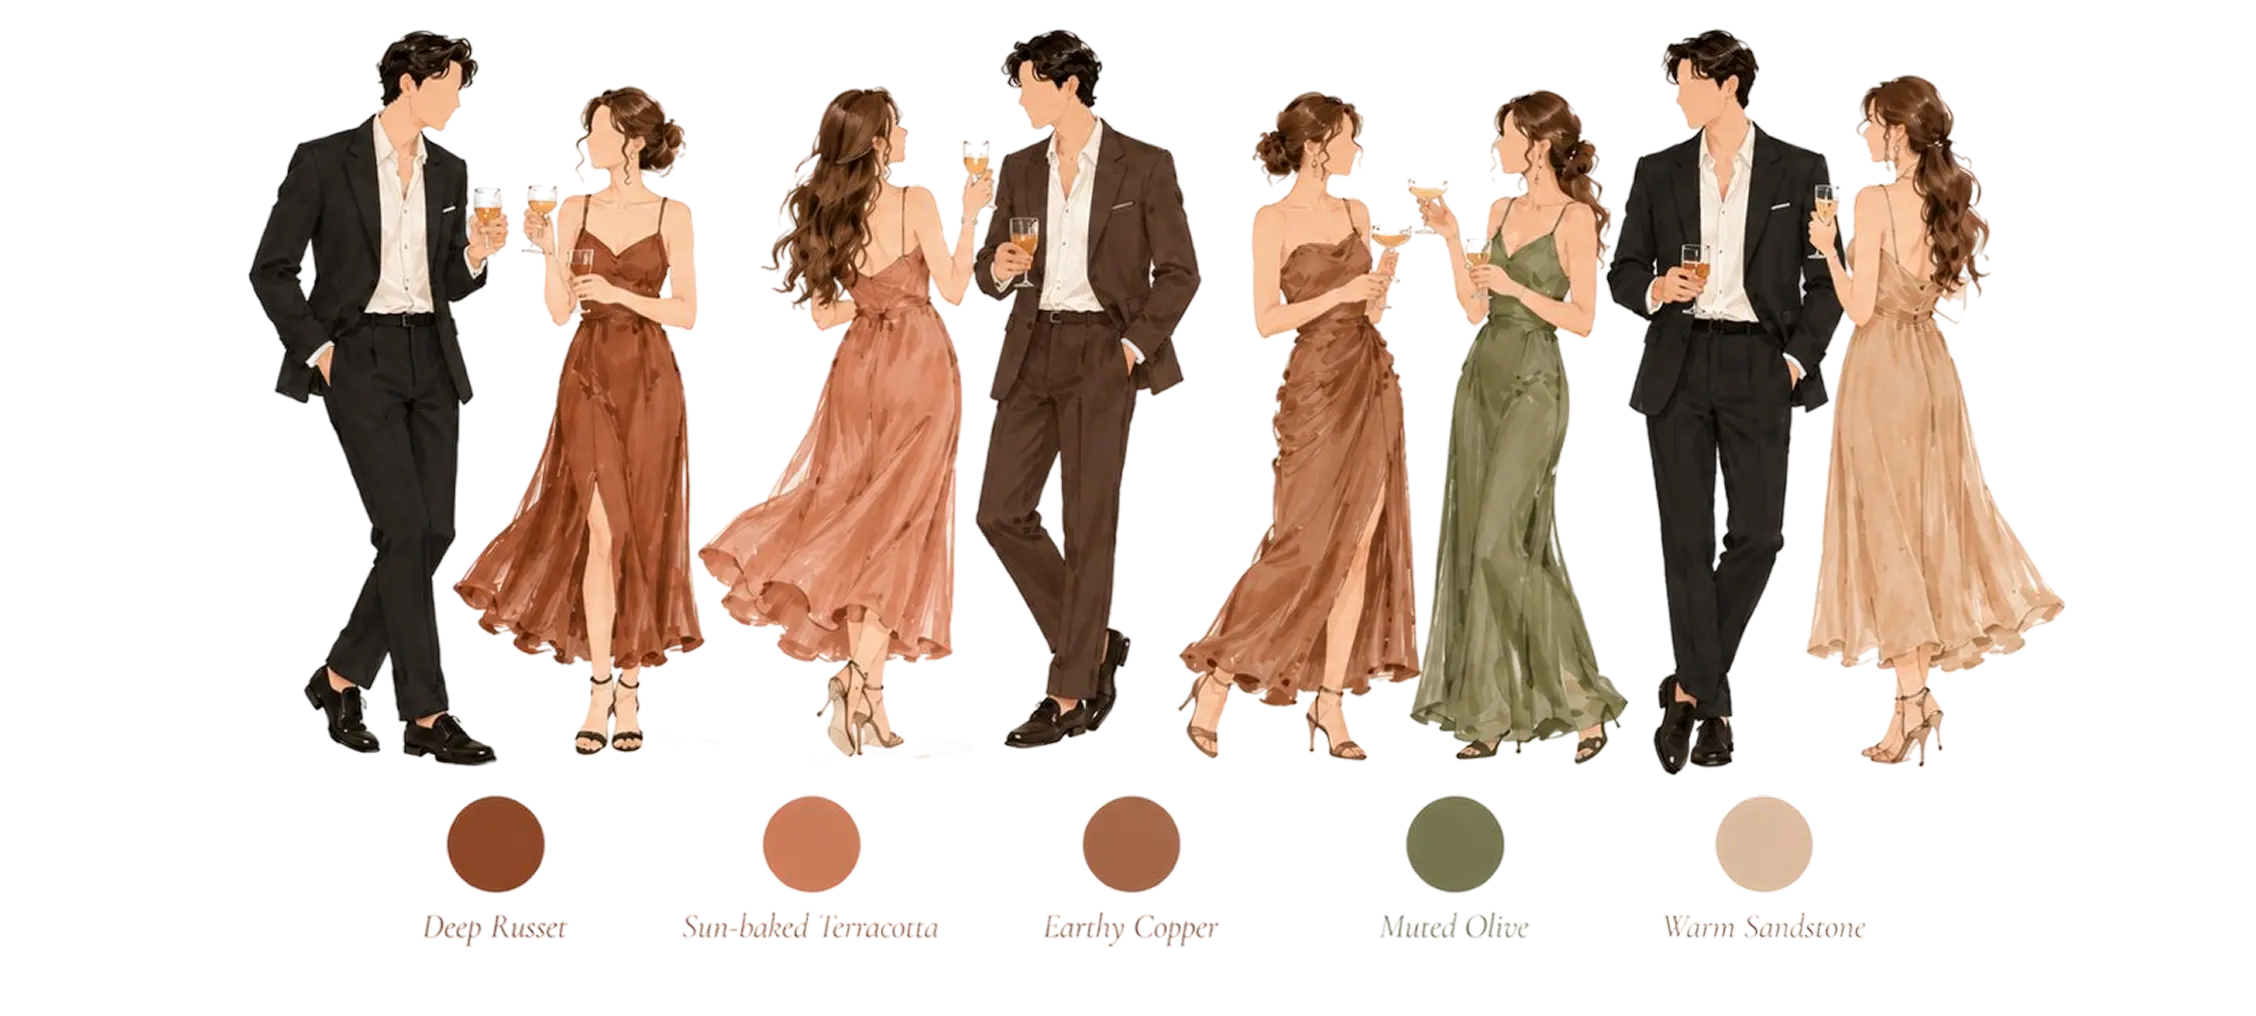
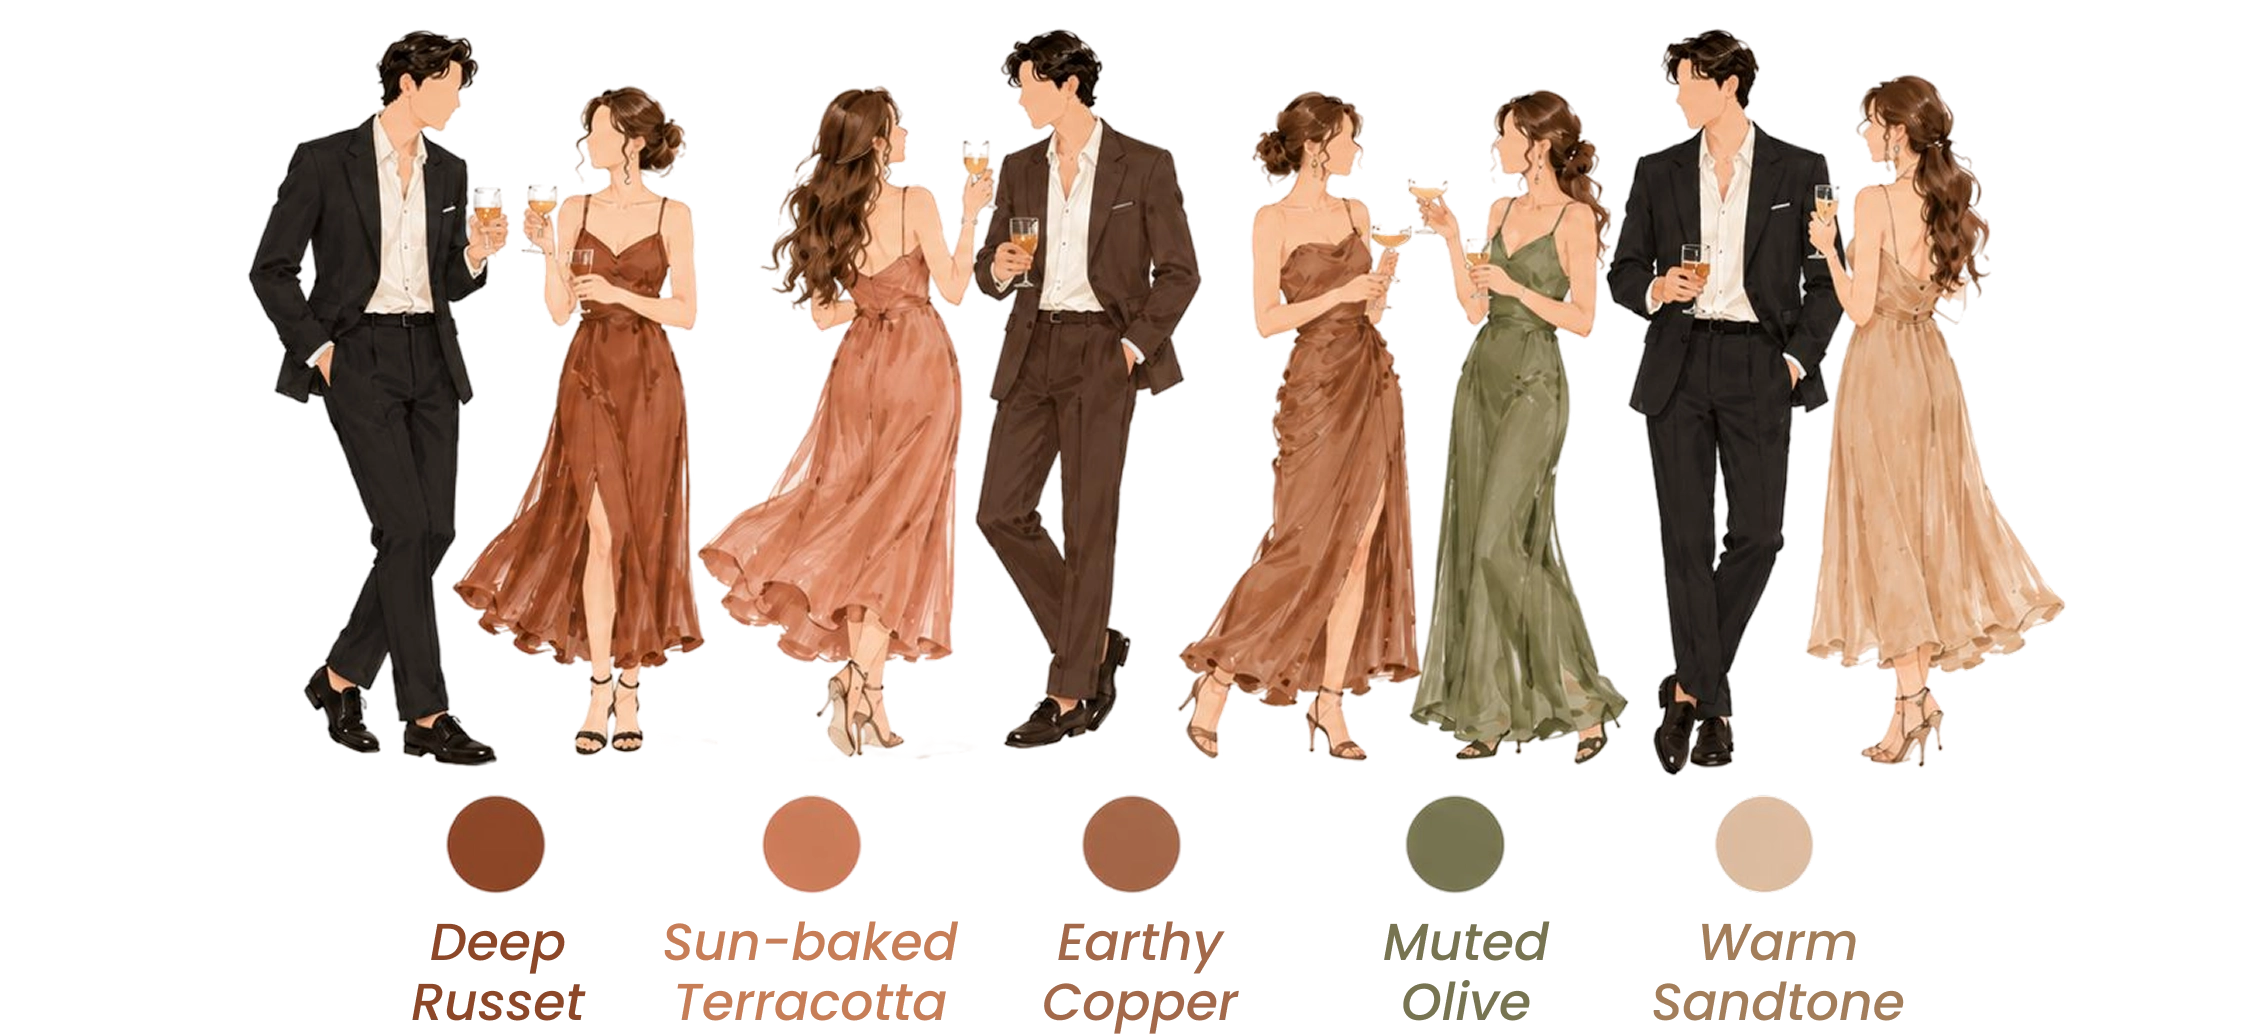
update dresscode mobile dekstop

diff --git a/src/components/templates/Lincoln-Laurensia/Dresscode.tsx b/src/components/templates/Lincoln-Laurensia/Dresscode.tsx
@@ -36,7 +36,7 @@ const DressCode = ({ guestData }: DressCodeProps) => {
         whileInView="show"
         viewport={{ once: true, amount: 0.3 }}
         transition={{ duration: 1.5, ease: "easeOut" }}
-        className="relative mt-[8.5vw] h-[41.03vw] w-full max-w-[103.33vw] lg:mt-[3.9vw] lg:h-[16.8vw] lg:max-w-[37.3vw]"
+        className="relative w-full mt-[4.1vw] h-[16.8vw] max-w-[37.3vw] hidden lg:block"
       >
         <Image
           src="/images/Lincoln-Laurensia/Dresscode/NewDC.webp"
@@ -52,7 +52,23 @@ const DressCode = ({ guestData }: DressCodeProps) => {
         whileInView="show"
         viewport={{ once: true, amount: 0.3 }}
         transition={{ duration: 1.5, ease: "easeOut" }}
-        className="mt-[0.75vw] lg:mt-[1.7vw]"
+        className="relative mt-[9vw] h-[44vw] w-[120vw] max-w-none lg:hidden"
+      >
+        <Image
+          src="/images/Lincoln-Laurensia/Dresscode/NewDCMobilee.webp"
+          alt="Dress code"
+          fill
+          className="object-contain"
+        />
+      </motion.div>
+
+      <motion.div
+        variants={fadeUp}
+        initial="hidden"
+        whileInView="show"
+        viewport={{ once: true, amount: 0.3 }}
+        transition={{ duration: 1.5, ease: "easeOut" }}
+        className="mt-[6.65vw] lg:mt-[2.7vw]"
       >
         <p className="text-[3.08vw] font-bold uppercase lg:text-[1.46vw] text-[#2F2F2F]">
           Gentlemen :

diff --git a/src/components/templates/Lincoln-Laurensia/hooks/usePreloader.tsx b/src/components/templates/Lincoln-Laurensia/hooks/usePreloader.tsx
@@ -15,6 +15,9 @@ const IMAGES_MOBILE: string[] = [
   //   EVENTORDER
   "/images/Lincoln-Laurensia/EventOrder/RumahMobile.webp",
 
+  // DRESSCODE
+  "/images/Lincoln-Laurensia/Dresscode/NewDCMobilee.webp",
+
   // THANKYOU
   "/images/Lincoln-Laurensia/Thankyou/AsetMobile.webp",
 ];
@@ -29,6 +32,10 @@ const IMAGES_DESKTOP: string[] = [
 
   // EVENTORDER
   "/images/Lincoln-Laurensia/EventOrder/RumahDekstop.webp",
+
+  // DRESSCODE
+  // DRESSCODE
+  "/images/Lincoln-Laurensia/Dresscode/NewDC.webp",
 
   // THANKYOU
   "/images/Lincoln-Laurensia/Thankyou/AsetDekstop.webp",
@@ -45,7 +52,6 @@ const IMAGES_COMMON: string[] = [
   "/images/Lincoln-Laurensia/Gallery/AsetSatu.webp",
 
   // DRESSCODE
-  "/images/Lincoln-Laurensia/Dresscode/NewDC.webp.webp",
   "/images/Lincoln-Laurensia/Dresscode/NoWhite.webp",
   "/images/Lincoln-Laurensia/Dresscode/NoBatik.webp",
 ];
